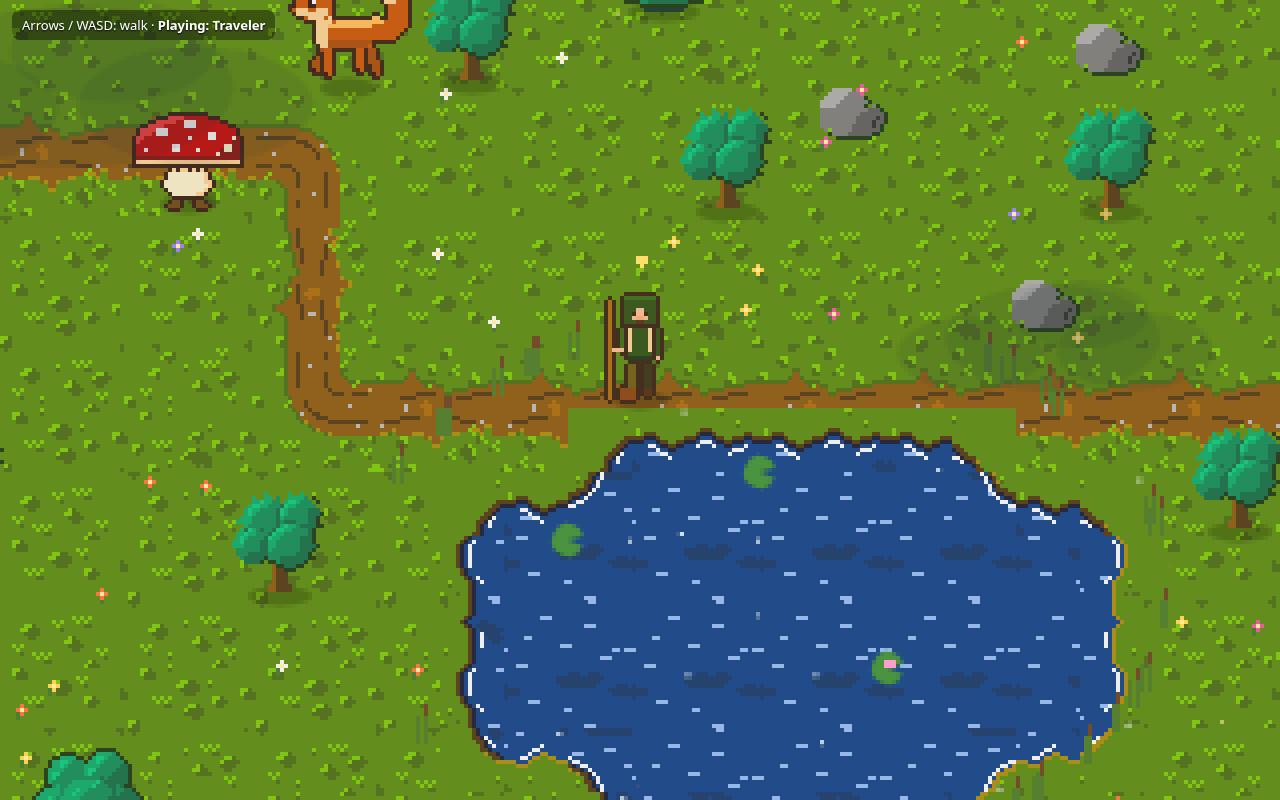
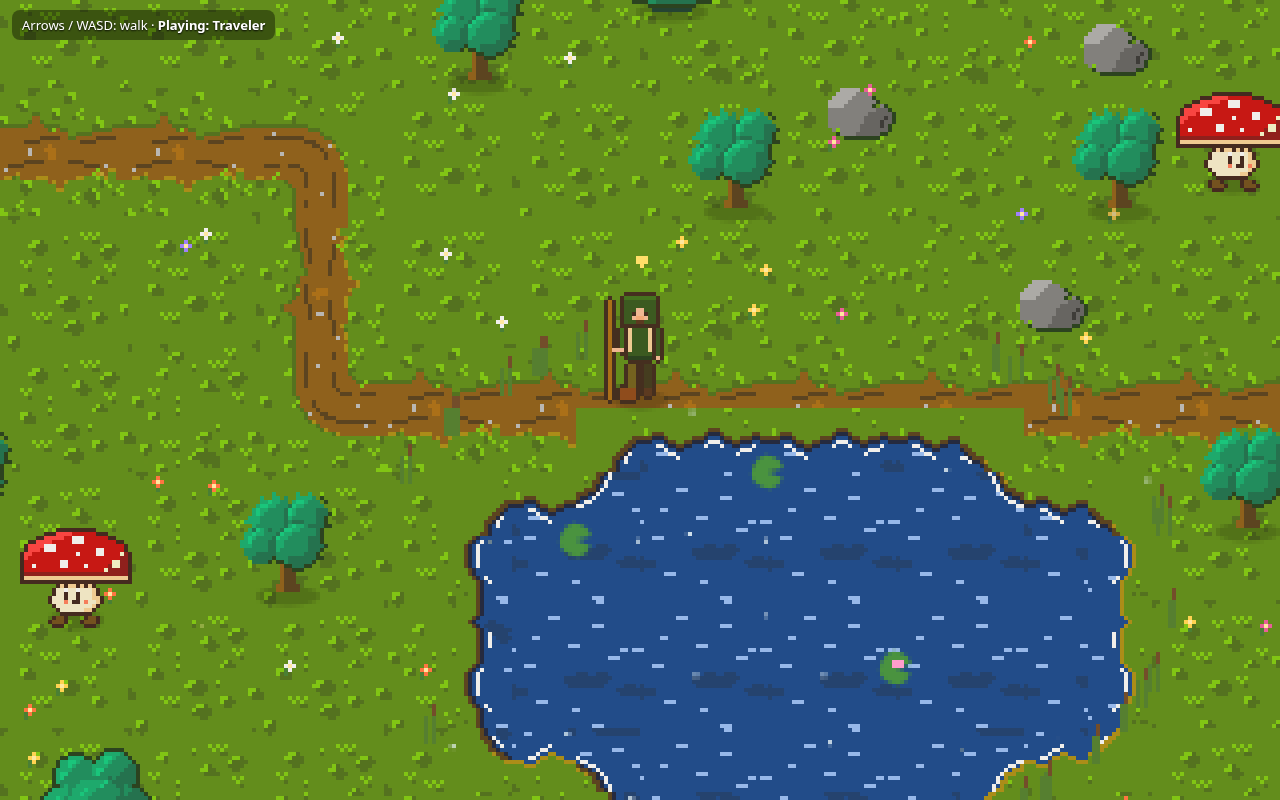
Publish 2026-10-11 14:21:11

diff --git a/index.html b/index.html
@@ -40,7 +40,7 @@ footer{text-align:center;color:var(--mut);font-size:12px;padding-bottom:32px}
 @media(max-width:800px){.live .lg{grid-template-columns:1fr}}
 </style></head><body>
 <header><div class="sub">Gallery</div><h1 id="ttl"></h1></header>
-<a class="playbtn" href="world/sporerun/" style="display:block;margin:18px auto;max-width:520px;text-align:center;padding:22px 28px;font-size:30px;font-weight:800;color:#fff;background:linear-gradient(135deg,#e2552b,#b8321a);border-radius:16px;text-decoration:none;box-shadow:0 6px 18px rgba(0,0,0,.25)">&#9654; Play Spore Run</a>
+<a class="playbtn" href="world/sporerun/" style="display:block;margin:18px auto;max-width:520px;text-align:center;padding:22px 28px;font-size:22px;font-weight:700;color:#ddd;background:linear-gradient(135deg,#55504c,#3a3634);border-radius:16px;text-decoration:none;box-shadow:0 6px 18px rgba(0,0,0,.25)">&#9654; Play Spore Run <span style="font-size:14px;font-weight:600;background:#0005;padding:3px 8px;border-radius:8px;margin-left:8px;vertical-align:middle">RETIRED</span></a>
 <main><section class="live"><h2><span class="dot"></span>Live now</h2><div class="note" id="liveupd">Auto-refreshing every 10s</div><div class="lg">
 <figure><img data-live src="animation/traveler_live.gif" alt="Traveler walking"><figcaption>Traveler (hand-drawn, Branch 1) on the hand-drawn grass &amp; path</figcaption></figure>
 <figure><a href="world/" target="_blank"><img data-live src="world/shots/world_start.png" alt="Latest world screenshot"></a><figcaption>Latest world screenshot · <a href="world/" target="_blank" style="color:var(--acc)">play the world ↗</a></figcaption></figure></div><div class="note" id="worldbuild" style="margin-top:12px"><b>World build 2026-10-11 14:19 PT</b> · studio-made fox and fly agaric now wander the world · all ground is hand-drawn: sand v6 + sand b v2 with beach shore v7 · traveler walks in 8 directions (up-right v4, down/up v2) · lighthouse solid, water impassable. <a href="world/shots/fix_path_corners.png" style="color:var(--acc)">path</a> · <a href="world/shots/traveler_walk_lr.gif" style="color:var(--acc)">walk</a> · <a href="world/shots/traveler_walk_diag.gif" style="color:var(--acc)">diagonal</a> · <a href="world/shots/fix_headland_rocks.png" style="color:var(--acc)">headland</a> · <a href="world/shots/npc_fox.png" style="color:var(--acc)">fox</a> · <a href="world/shots/npc_fly_agaric.png" style="color:var(--acc)">fly agaric</a> · <a href="world/shots/fix_pond_shore.png" style="color:var(--acc)">pond</a> · <a href="world/shots/fix_lighthouse_from_south.png" style="color:var(--acc)">lighthouse</a></div></section><h2>Org</h2><div class="xorg" id="xorg"></div><h2>Animation</h2><div class="anim" id="anim"></div>

diff --git a/design/lamplighter_build_plan.md b/design/lamplighter_build_plan.md
@@ -1,0 +1,26 @@
+# The Lamplighter's Thread — build plan (from outline v1.1)
+The systems come from adventure_mechanics.md. Everything is data-driven: areas/*.json, dialogue.json, items.json, flags.
+Tool order: Shears -> Plank -> Lantern -> Key (+ Lantern Heart). No fail state, and hint lines appear on every gate.
+
+## Milestone 1 — village + chapter 1 (playable first, about 5 min)
+Area: Meadow / Bramblewick, about 30x20 tiles. It has Thistle's cottage (enterable 1-room interior with the save hearth), the festival stall, berry bushes, the dark lighthouse visible on the headland (blocked by a "path washed out — come back later" sign until the climax), and an east exit to the Pond blocked by brambles.
+Flow:
+1. Title screen, then the intro card: "The beacon is dark. Wren's boat is still out in the fog."
+2. Inside the cottage: read Thistle's half-finished letter (a journal clue, the goal becomes "Find Thistle") and pick up the broken key handle (a story item). Touching the hearth saves.
+3. Robin, near the stall: "I need a ribbon for my nest-lantern." Stall keeper (use the fox placeholder or a sign NPC): "Ribbons for berries!"
+4. Pick 3 berries from the bushes (a "3/3" counter). Trade berries for the ribbon, then give the ribbon to the robin, who gives the Shears.
+5. Use the shears on the brambles, then a fade transition to the Pond. End of milestone 1: a "Chapter 1 complete" card.
+6. Secret 1: a festival pie behind the stall.
+Done when: it plays start to finish in 4–6 min, saves and continues, and nothing soft-locks.
+
+## Milestone 2 — Pond
+Stepping-stone push puzzle (3 stones into a 3-gap row) to reach the deer on the islet. The deer gives the Plank. Secret: a journal page under the willow.
+
+## Milestone 3 — Fly Agaric Wood
+The plank bridges the gap. Mushroom sequence: 4 glowing mushrooms, with the order given by the journal riddle; a wrong press makes them all dim and reset, and the hint repeats. Reward: the Lantern. Secret: a journal page in a hollow log.
+
+## Milestone 4 — Coast / Tide Cave
+The lantern lights the dark cave (with a vision radius; without the lantern you only see a 1-tile circle and an "It's too dark" hint). Thistle hides with the fox guarding him. Help the fox (bring a fish from the tide pool), and you get the Key plus the Lantern Heart. A cutscene with Thistle reveals the Fogwyrm twist. Secret: a journal page in a tide pool.
+
+## Milestone 5 — Lighthouse climax and epilogue
+Storm tint with rain. Floor 1: shears on the vines over the door. Floor 2: the lantern on the dark stairs. Floor 3: the plank over the broken landing. Floor 4: the key opens the lamp room. Lamp sequence while the Fogwyrm circles. Then a choice ("Give the lantern" is the only way forward, and refusing loops gently). The Fogwyrm shrinks to a wisp, the beacon relights, Wren's boat arrives, and the epilogue festival plays, followed by credits and the stats card (time, secrets out of 5, friends helped). Secret: a golden acorn on the balcony.

diff --git a/design/lamplighter_art_list.md b/design/lamplighter_art_list.md
@@ -1,0 +1,26 @@
+# Art list — The Lamplighter's Thread (32x32 on magenta unless noted; the priority order matches the milestones)
+## P1 — village and chapter 1 (needed first)
+1. Thistle: an old lighthouse keeper NPC, idle 2 frames, plus a 48x48 portrait
+2. 48x48 dialogue portraits: traveler, robin
+3. Thistle's cottage: exterior (96x96), an interior floor/wall tile set, a hearth (2-frame flicker), and a table with a letter
+4. Festival stall (64x64) with bunting, plus a string of paper lanterns (unlit and lit, for the epilogue)
+5. Berry bush (with berries and picked), plus a berry item icon
+6. Item icons, 24x24 inside 32: ribbon, shears, broken key handle, letter
+7. A bramble gate tile (overgrown and cut-away versions)
+8. Interact bubble "!" and a journal book icon (UI)
+9. Festival pie (secret)
+10. The dark lighthouse for the headland backdrop (64x128), unlit and lit
+## P2 — Pond and Wood
+11. Push stone, plus stepping-stone water tiles (gap and filled)
+12. Plank icon, plus a plank bridge tile over a gap
+13. Glowing mushroom (dim and lit) in 4 colors
+14. Journal page item; a hollow log; a willow (64x64)
+15. Portraits: deer, fly agaric
+## P3 — Coast, Cave, Lighthouse, Ending
+16. Cave entrance, plus dark cave floor/wall tiles
+17. Fish item, tide pool tile, Key icon, Lantern icon, and the Lantern Heart (2-frame glow)
+18. Fox portrait; Thistle frightened pose
+19. Lighthouse interior: vine-covered door, stairs, broken landing, lamp room, and the great lamp (off/on)
+20. Fogwyrm: a big mist form (96x64, 3-frame drift) and a small calm wisp (2 frames)
+21. Wren's boat (64x32, bobbing in 2 frames); golden acorn (secret)
+22. Storm overlay: a rain streak tile
